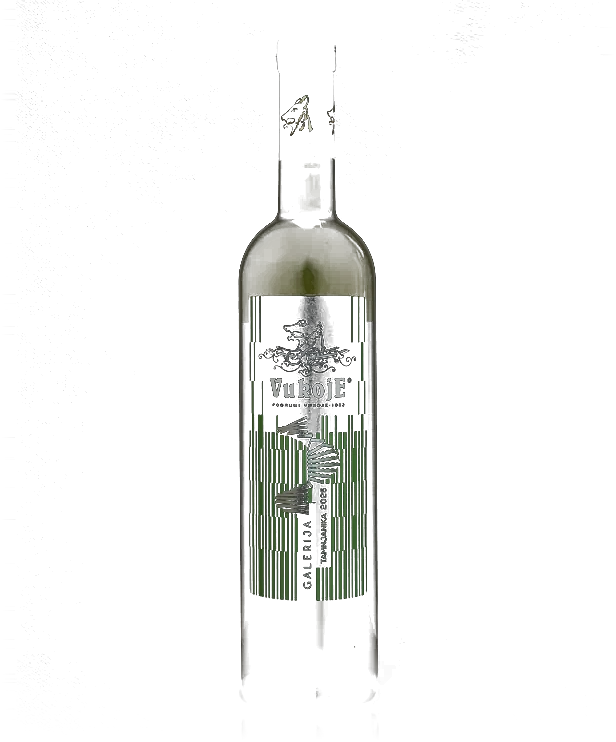
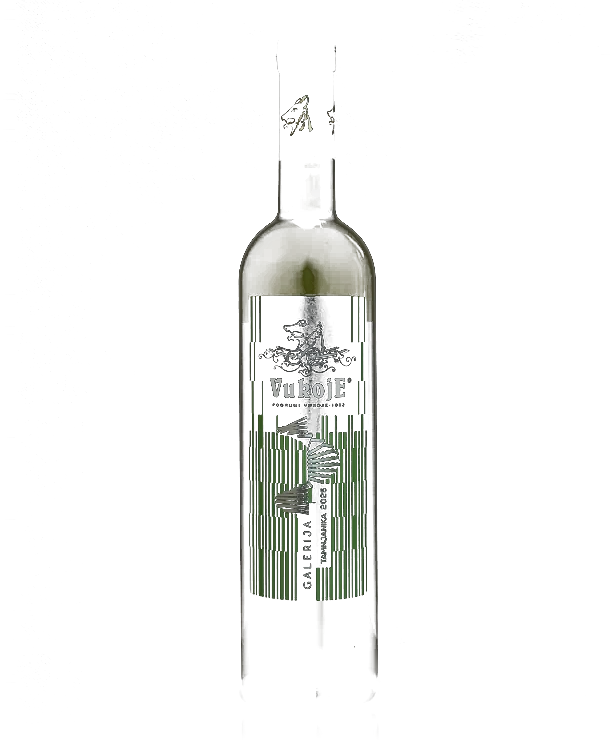
Clean the bottle of added light, drop the redundant watermark, fix the button
Three things reported from the phone, plus the consistency pass they
prompted.

The bottles still looked processed. Two causes, both mine. The alpha
ramp bent below 1, which lifted the faint studio halo along with the
bottle and gave the glass a glow it never had in the photograph — the
curve now bends above 1, so the halo drops to about a fifth while the
bottle stays solid. And the stage was throwing coloured light onto the
subject: the blurred backdrop ran at half opacity and the warm pool at
full, so both are pulled well back. The stage is lit; the bottle is not.
The painted reflection under the bottle is gone too — the photograph
already contains its own, and the two sat at slightly different angles.

"Tvrdoš Vranac" under a giant VRANAC was the page saying one word twice
in a single glance. The watermark is the vintage where we know it, the
variety only when the name does not already contain it, and nothing at
all otherwise — eight of the thirteen wines now show none, which is the
honest outcome rather than a filler.

The add button was a fixed slab with its icon off-centre. Cause: a
styles.css rule caps every .btn at 280px on phones, written for the
homepage hero where buttons stack, and it was landing on a button inside
a flex bar. Both product-page buttons now size to their content and
centre it explicitly.

Consistency pass, since the same journey was speaking two languages:
"lista" became "korpa" everywhere including the homepage and its English
[…]

diff --git a/script.js b/script.js
@@ -72,13 +72,15 @@ function tag2Chip(wine, lang) {
     + '<span class="wf-icon wf-icon--mini">' + GROUP_ICON + '</span>' + wine.tag2[lang] + '</span>';
 }
 
-// The same basket drawn in the header, so the two read as one action.
+// The same trolley the header and the product page use. It was a shopping
+// bag here and a trolley there, which put two glyphs for one basket on the
+// same journey — the trolley wins because it is the one people read as "buy"
+// without looking.
 const CART_ICON =
   '<svg width="21" height="21" viewBox="0 0 24 24" fill="none" stroke="currentColor" '
-  + 'stroke-width="1.8" aria-hidden="true" focusable="false">'
-  + '<path d="M6 2L3 6v14a2 2 0 002 2h14a2 2 0 002-2V6l-3-4z"/>'
-  + '<line x1="3" y1="6" x2="21" y2="6"/>'
-  + '<path d="M16 10a4 4 0 01-8 0"/>'
+  + 'stroke-width="1.7" stroke-linecap="round" stroke-linejoin="round" aria-hidden="true" focusable="false">'
+  + '<circle cx="9" cy="20" r="1.6"/><circle cx="18" cy="20" r="1.6"/>'
+  + '<path d="M1.5 2h2.6l2.5 12.1a1.8 1.8 0 001.8 1.4h8.9a1.8 1.8 0 001.8-1.4L21 6H5.2"/>'
   + '</svg>';
 
 // Bundles at or above this carry the free-delivery mark.
@@ -202,7 +204,7 @@ function renderWines() {
   // The rail always ends with the bundle card below, so it can never hold a
   // single card any more — the lone-card width rule it used to need is gone
   // with it.
-  const addLabel = currentLang === 'sr' ? 'Dodaj u listu' : 'Add to list';
+  const addLabel = currentLang === 'sr' ? 'Dodaj u korpu' : 'Add to cart';
   const moreLabel = currentLang === 'sr' ? 'Prikaži detalje' : 'Show details';
   grid.innerHTML = list.map(wine => `
     <div class="wine-card fade-up" data-wine-page="${wineHref(wine.id)}">
@@ -294,7 +296,7 @@ function renderBundles() {
         + '">' + bundle.badge[currentLang] + '</div>'
       : '';
     const countLabel = bundle.count + (isSr ? (bundle.count >= 5 ? ' flaša' : ' flaše') : ' btl.');
-    const btnLabel = isSr ? 'Dodaj paket u listu' : 'Add bundle to list';
+    const btnLabel = isSr ? 'Dodaj paket u korpu' : 'Add bundle to cart';
     const moreLabel = isSr ? 'Prikaži detalje' : 'Show details';
 
     // Free delivery is called out from this threshold up.
@@ -355,7 +357,7 @@ function addBundleToCart(bundleId) {
   }
   saveCart();
   renderCart();
-  showToast(currentLang === 'sr' ? `${bundle.name.sr} dodat u listu` : `${bundle.name.en} added to list`);
+  showToast(currentLang === 'sr' ? `${bundle.name.sr} dodat u korpu` : `${bundle.name.en} added to cart`);
   const cartBtn = document.getElementById('cartBtn');
   cartBtn.classList.remove('cart-pulse');
   void cartBtn.offsetWidth;
@@ -375,7 +377,7 @@ function addToCart(id) {
   saveCart();
   renderCart();
   const wine = WINES.find(w => w.id === id);
-  showToast(currentLang === 'sr' ? `${wine.name.sr} dodato u listu` : `${wine.name.en} added to list`);
+  showToast(currentLang === 'sr' ? `${wine.name.sr} dodato u korpu` : `${wine.name.en} added to cart`);
   const cartBtn = document.getElementById('cartBtn');
   cartBtn.classList.remove('cart-pulse');
   void cartBtn.offsetWidth;
@@ -441,7 +443,7 @@ function renderCart() {
   const footerEl = document.getElementById('cartFooter');
   updateCartCount();
   if (cart.length === 0) {
-    itemsEl.innerHTML = `<p class="cart-empty">${currentLang === 'sr' ? 'Lista je prazna' : 'Your list is empty'}</p>`;
+    itemsEl.innerHTML = `<p class="cart-empty">${currentLang === 'sr' ? 'Korpa je prazna' : 'Your cart is empty'}</p>`;
     footerEl.style.display = 'none';
     return;
   }
@@ -636,8 +638,8 @@ function openDetail(id) {
   // The button shows only the cart, so the words live in its accessible name —
   // setting textContent here would replace the icon with them.
   document.getElementById('detailAdd').setAttribute('aria-label', wine
-    ? (isSr ? 'Dodaj u listu' : 'Add to list')
-    : (isSr ? 'Dodaj paket u listu' : 'Add bundle to list'));
+    ? (isSr ? 'Dodaj u korpu' : 'Add to cart')
+    : (isSr ? 'Dodaj paket u korpu' : 'Add bundle to cart'));
 
   setPanelOpen('wineDetail', true);
   document.getElementById('detailClose').focus();
@@ -694,7 +696,7 @@ function setCartOpen(open) {
 
 function openCheckout() {
   if (cart.length === 0) {
-    showToast(currentLang === 'sr' ? 'Lista je prazna' : 'Your list is empty', false);
+    showToast(currentLang === 'sr' ? 'Korpa je prazna' : 'Your cart is empty', false);
     return;
   }
   document.getElementById('checkoutStep1').style.display = 'block';
@@ -1073,6 +1075,15 @@ document.addEventListener('DOMContentLoaded', () => {
   renderCart();
   initDetail();
   switchLanguage(currentLang);
+
+  // A product page has no checkout of its own, so its cart panel sends people
+  // back here with ?korpa=1 and the panel opens on arrival. Without this the
+  // button said "continue to reservation" and quietly dropped them at the top
+  // of the wine list with their cart closed.
+  if (new URLSearchParams(location.search).get('korpa') === '1') {
+    setCartOpen(true);
+    history.replaceState(null, '', location.pathname + location.hash);
+  }
   observeFadeElements();
   createHeroParticles();
   animateCounters();

diff --git a/vino.css b/vino.css
@@ -124,16 +124,16 @@
   padding: 132px 0 96px;
 }
 
-/* The bottle photo again, blown far out of focus. It gives the stage the
-   wine's own colour — a Vranac page glows differently from a Žilavka page —
-   without any of it reading as a second image. */
+/* The bottle photo again, blown far out of focus, giving the stage a trace
+   of the wine's own colour. Held well back: at half opacity it tinted the
+   bottle in front of it, which is exactly what it must not do. */
 .wp-hero-bg {
   position: absolute;
   inset: -18%;
   background-size: cover;
   background-position: center;
-  filter: blur(80px) saturate(1.5);
-  opacity: 0.5;
+  filter: blur(96px) saturate(1.15);
+  opacity: 0.26;
   transform: scale(1.2);
   pointer-events: none;
 }
@@ -149,8 +149,10 @@
   z-index: 1;
 }
 
-/* A single warm pool of light behind where the bottle stands, so the bottle
-   looks lit rather than pasted. */
+/* A pool of light behind where the bottle stands, kept faint on purpose.
+   At full strength it washed warm colour across the glass itself, so the
+   photograph stopped looking like a photograph — the stage should be lit,
+   not the bottle. */
 .wp-hero-glow {
   position: absolute;
   left: 20%;
@@ -161,9 +163,9 @@
   max-height: 620px;
   transform: translate(-50%, -50%);
   background: radial-gradient(circle,
-    rgba(201, 169, 97, 0.2) 0%,
-    rgba(139, 32, 53, 0.14) 38%,
-    rgba(31, 5, 8, 0) 68%);
+    rgba(201, 169, 97, 0.085) 0%,
+    rgba(139, 32, 53, 0.05) 40%,
+    rgba(31, 5, 8, 0) 70%);
   z-index: 2;
   pointer-events: none;
 }
@@ -256,18 +258,10 @@
   pointer-events: none;
 }
 
-.wp-reflection {
-  position: absolute;
-  z-index: 1;
-  left: 50%;
-  bottom: 6%;
-  width: 46%;
-  height: 26px;
-  transform: translateX(-50%);
-  background: radial-gradient(ellipse at center,
-    rgba(201, 169, 97, 0.2) 0%, rgba(201, 169, 97, 0) 70%);
-  pointer-events: none;
-}
+/* The photograph already contains the bottle's reflection on the studio
+   floor, and the cut-out keeps it. A second painted one underneath was two
+   reflections at slightly different angles. */
+.wp-reflection { display: none; }
 
 /* ----------------------------------------------------------- the words */
 .wp-intro { position: relative; }
@@ -1124,4 +1118,35 @@
   .wp-hero-parallax .wp-stage,
   .wp-hero-parallax .wp-ghost { transform: none !important; opacity: 1 !important; }
   .wp-cue-line::after { animation: none; }
+}
+
+/* ===================================================== consistency pass */
+
+/* styles.css caps every .btn at 280px wide on phones — a rule written for
+   the homepage hero, where the buttons stack. Inherited here it made the
+   sticky bar's button a fixed slab narrower than its own bar, and left its
+   icon and label sitting off-centre inside it. Both product-page buttons
+   size to their own content and centre it explicitly. */
+.wp-add,
+.wp-sticky-btn {
+  display: inline-flex;
+  align-items: center;
+  justify-content: center;
+  gap: 11px;
+  width: auto;
+  max-width: none;
+}
+
+.wp-sticky-inner { gap: 16px; }
+
+.wp-sticky-info { flex: 1 1 auto; min-width: 0; }
+
+.wp-sticky-btn { flex: 0 0 auto; }
+
+@media (max-width: 768px) {
+  .wp-add { width: 100%; }
+  .wp-sticky-btn { padding: 13px 22px; }
+  /* The name is the first thing to give up room — the price and the button
+     are what the bar is for. */
+  .wp-sticky-name { font-size: 0.8rem; }
 }

diff --git a/index.html b/index.html
@@ -65,11 +65,10 @@
         <button type="button" class="lang-toggle" id="langToggle" aria-label="Jezik / Language">
           <span class="lang-active">SR</span> / <span>EN</span>
         </button>
-        <button type="button" class="cart-btn" id="cartBtn" aria-label="Cart">
-          <svg width="24" height="24" viewBox="0 0 24 24" fill="none" stroke="currentColor" stroke-width="2">
-            <path d="M6 2L3 6v14a2 2 0 002 2h14a2 2 0 002-2V6l-3-4z"/>
-            <line x1="3" y1="6" x2="21" y2="6"/>
-            <path d="M16 10a4 4 0 01-8 0"/>
+        <button type="button" class="cart-btn" id="cartBtn" aria-label="Korpa">
+          <svg width="23" height="23" viewBox="0 0 24 24" fill="none" stroke="currentColor" stroke-width="1.7" stroke-linecap="round" stroke-linejoin="round">
+            <circle cx="9" cy="20" r="1.6"/><circle cx="18" cy="20" r="1.6"/>
+            <path d="M1.5 2h2.6l2.5 12.1a1.8 1.8 0 001.8 1.4h8.9a1.8 1.8 0 001.8-1.4L21 6H5.2"/>
           </svg>
           <span class="cart-count" id="cartCount">0</span>
         </button>
@@ -383,13 +382,13 @@
   </footer>
 
   <div class="cart-overlay" id="cartOverlay"></div>
-  <aside class="cart-sidebar" id="cartSidebar" aria-label="Lista za rezervaciju" inert>
+  <aside class="cart-sidebar" id="cartSidebar" aria-label="Korpa" inert>
     <div class="cart-header">
-      <h3 data-sr="Lista za rezervaciju" data-en="Reservation List">Lista za rezervaciju</h3>
+      <h3 data-sr="Korpa" data-en="Reservation List">Korpa</h3>
       <button type="button" class="cart-close" id="cartClose">&times;</button>
     </div>
     <div class="cart-items" id="cartItems">
-      <p class="cart-empty" data-sr="Lista je prazna" data-en="Your list is empty">Lista je prazna</p>
+      <p class="cart-empty" data-sr="Korpa je prazna" data-en="Your cart is empty">Korpa je prazna</p>
     </div>
     <div class="cart-footer" id="cartFooter" style="display:none;">
       <div class="cart-ship" id="cartShip"></div>
@@ -487,7 +486,7 @@
             <span class="wine-price" id="detailPrice"></span>
             <span class="wine-volume" id="detailVol"></span>
           </div>
-          <button type="button" class="btn btn-primary btn-full detail-add" id="detailAdd" aria-label="Dodaj u listu">
+          <button type="button" class="btn btn-primary btn-full detail-add" id="detailAdd" aria-label="Dodaj u korpu">
             <svg width="22" height="22" viewBox="0 0 24 24" fill="none" stroke="currentColor" stroke-width="1.8" aria-hidden="true" focusable="false">
               <path d="M6 2L3 6v14a2 2 0 002 2h14a2 2 0 002-2V6l-3-4z"/>
               <line x1="3" y1="6" x2="21" y2="6"/>

diff --git a/vino.html b/vino.html
@@ -30,7 +30,7 @@
       href="https://fonts.googleapis.com/css2?family=Cinzel:wght@400;600;700;900&family=Cormorant+Garamond:ital,wght@0,300;0,400;0,500;0,600;0,700;1,400;1,500;1,600&family=Lato:wght@300;400;700&display=swap">
   </noscript>
   <link rel="stylesheet" href="styles.css?v=116">
-  <link rel="stylesheet" href="vino.css?v=7">
+  <link rel="stylesheet" href="vino.css?v=8">
 
   <!-- Microsoft Clarity: session recordings and click heatmaps, project "Hercz Wines". -->
   <script type="text/javascript">
@@ -57,11 +57,10 @@
         <li><a href="index.html#contact" data-sr="Kontakt" data-en="Contact">Kontakt</a></li>
       </ul>
       <div class="nav-actions">
-        <button type="button" class="cart-btn" id="cartBtn" aria-label="Cart">
-          <svg width="24" height="24" viewBox="0 0 24 24" fill="none" stroke="currentColor" stroke-width="2">
-            <path d="M6 2L3 6v14a2 2 0 002 2h14a2 2 0 002-2V6l-3-4z"/>
-            <line x1="3" y1="6" x2="21" y2="6"/>
-            <path d="M16 10a4 4 0 01-8 0"/>
+        <button type="button" class="cart-btn" id="cartBtn" aria-label="Korpa">
+          <svg width="23" height="23" viewBox="0 0 24 24" fill="none" stroke="currentColor" stroke-width="1.7" stroke-linecap="round" stroke-linejoin="round">
+            <circle cx="9" cy="20" r="1.6"/><circle cx="18" cy="20" r="1.6"/>
+            <path d="M1.5 2h2.6l2.5 12.1a1.8 1.8 0 001.8 1.4h8.9a1.8 1.8 0 001.8-1.4L21 6H5.2"/>
           </svg>
           <span class="cart-count" id="cartCount">0</span>
         </button>
@@ -343,7 +342,7 @@
         <span>Ukupno</span>
         <span id="cartTotal">0 RSD</span>
       </div>
-      <a href="index.html#wines" class="btn btn-primary cart-checkout-link">Nastavi na rezervaciju</a>
+      <a href="index.html?korpa=1#wines" class="btn btn-primary cart-checkout-link">Nastavi na rezervaciju</a>
     </div>
   </aside>
 
@@ -360,6 +359,6 @@
 
   <script src="data.js?v=1"></script>
   <script src="wine-details.js?v=1"></script>
-  <script src="vino.js?v=7"></script>
+  <script src="vino.js?v=8"></script>
 </body>
 </html>

diff --git a/vino.js b/vino.js
@@ -353,8 +353,16 @@ function render(wine, detail) {
   // while "Žilavka" ran out from under the bottle and across the text column.
   // Sized from the character count instead, so every wine fills the same
   // width whatever its watermark says.
+  // The watermark is the vintage where we know it. Where we do not, the
+  // variety stands in — but only when it is not already in the wine's name.
+  // "Tvrdoš Vranac" under a giant VRANAC was the page saying the same word
+  // twice in the same glance, which is worse than saying nothing, so in that
+  // case the watermark is simply left out.
   const ghost = document.getElementById('wpGhost');
-  const ghostText = detail.vintage || variety.name.sr;
+  const nameHasVariety = wine.name.sr.toLowerCase()
+    .includes(variety.name.sr.toLowerCase());
+  const ghostText = detail.vintage || (nameHasVariety ? '' : variety.name.sr);
+  ghost.hidden = !ghostText;
   ghost.textContent = ghostText;
   // Narrow screens give the watermark the bottle's width rather than half a
   // page, so it is sized against the viewport it is actually in.

diff --git a/tools-cutout.py b/tools-cutout.py
@@ -26,7 +26,7 @@ from PIL import Image
 CENTRE, HALF_W = 0.50, 0.22
 TOP, BOTTOM = 0.02, 0.97
 
-def cutout(src, dst, gain=1.45, gamma=0.88, solid_at=70, dim=0.84):
+def cutout(src, dst, gain=1.5, gamma=1.4, solid_at=58, dim=0.88):
     im = Image.open(src).convert('RGB')
     a = np.asarray(im).astype(np.float32)
     lum = 0.299*a[:,:,0] + 0.587*a[:,:,1] + 0.114*a[:,:,2]
